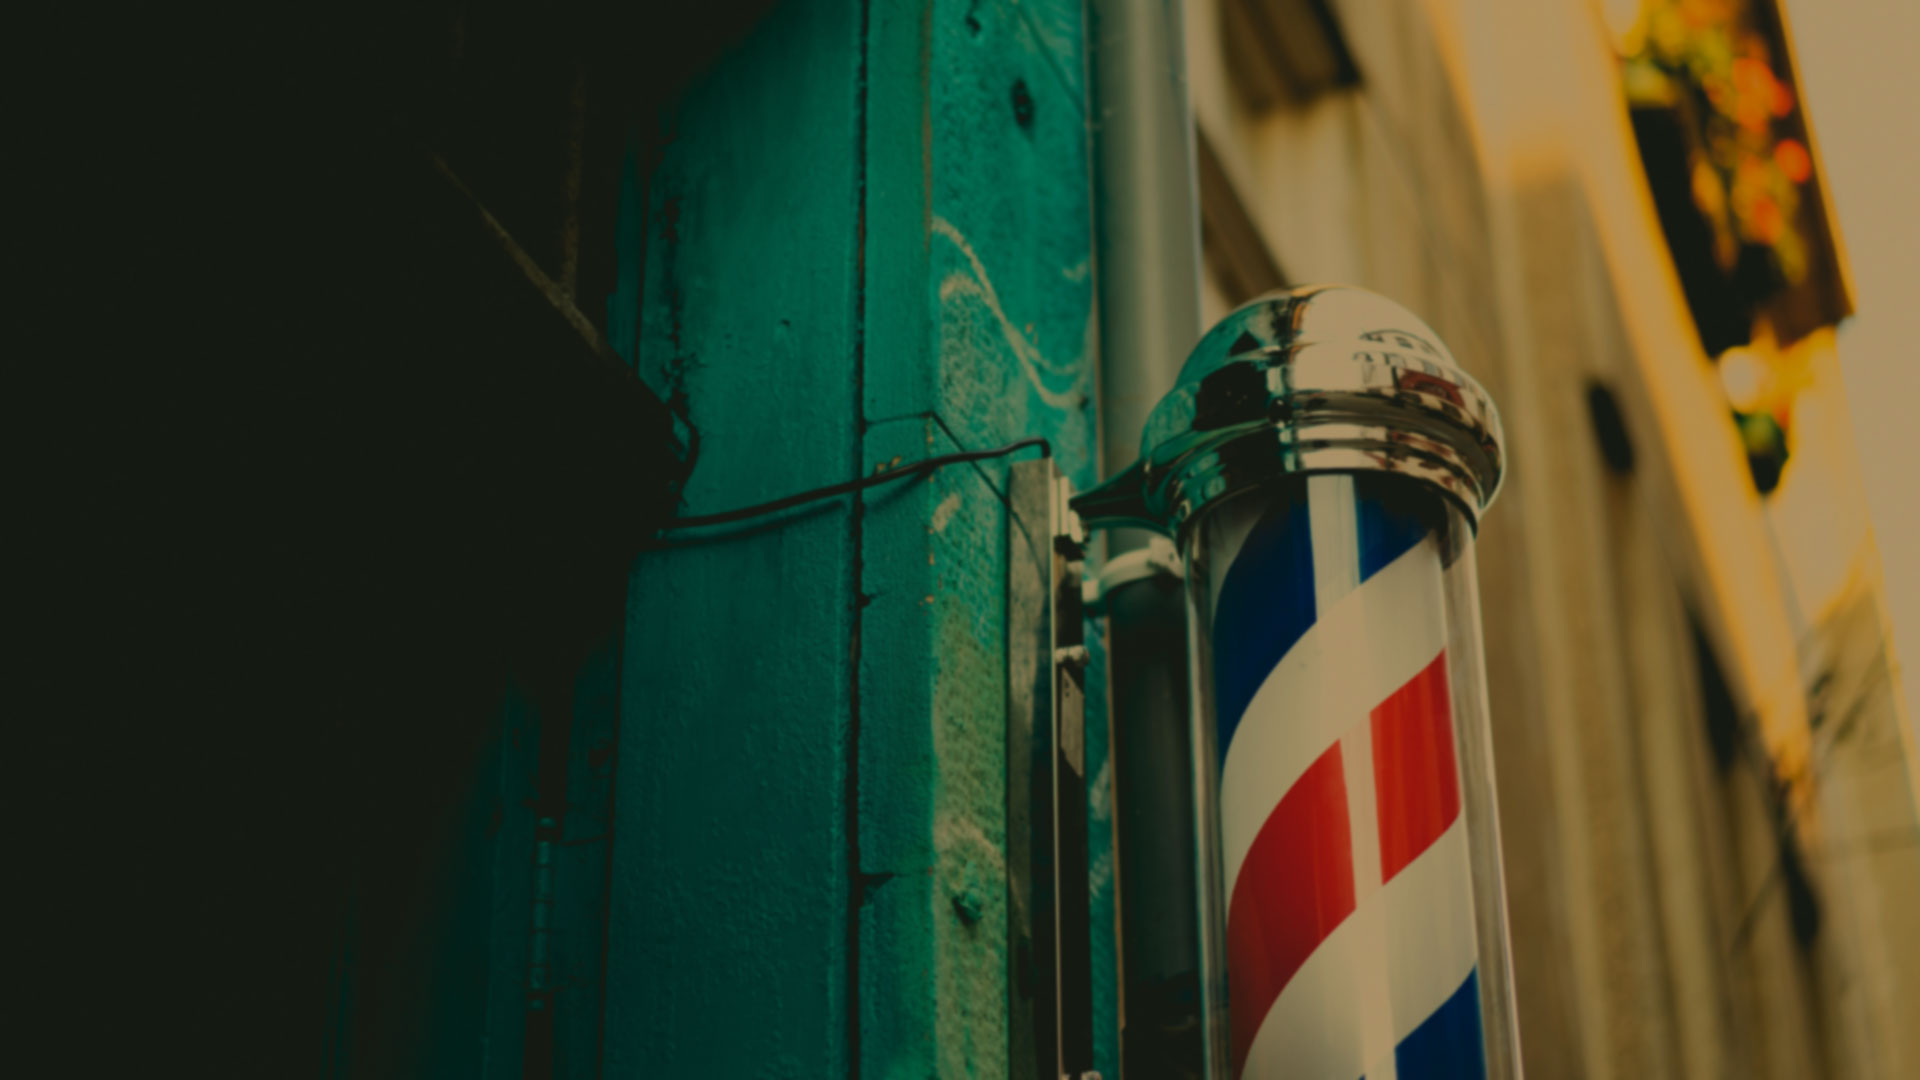
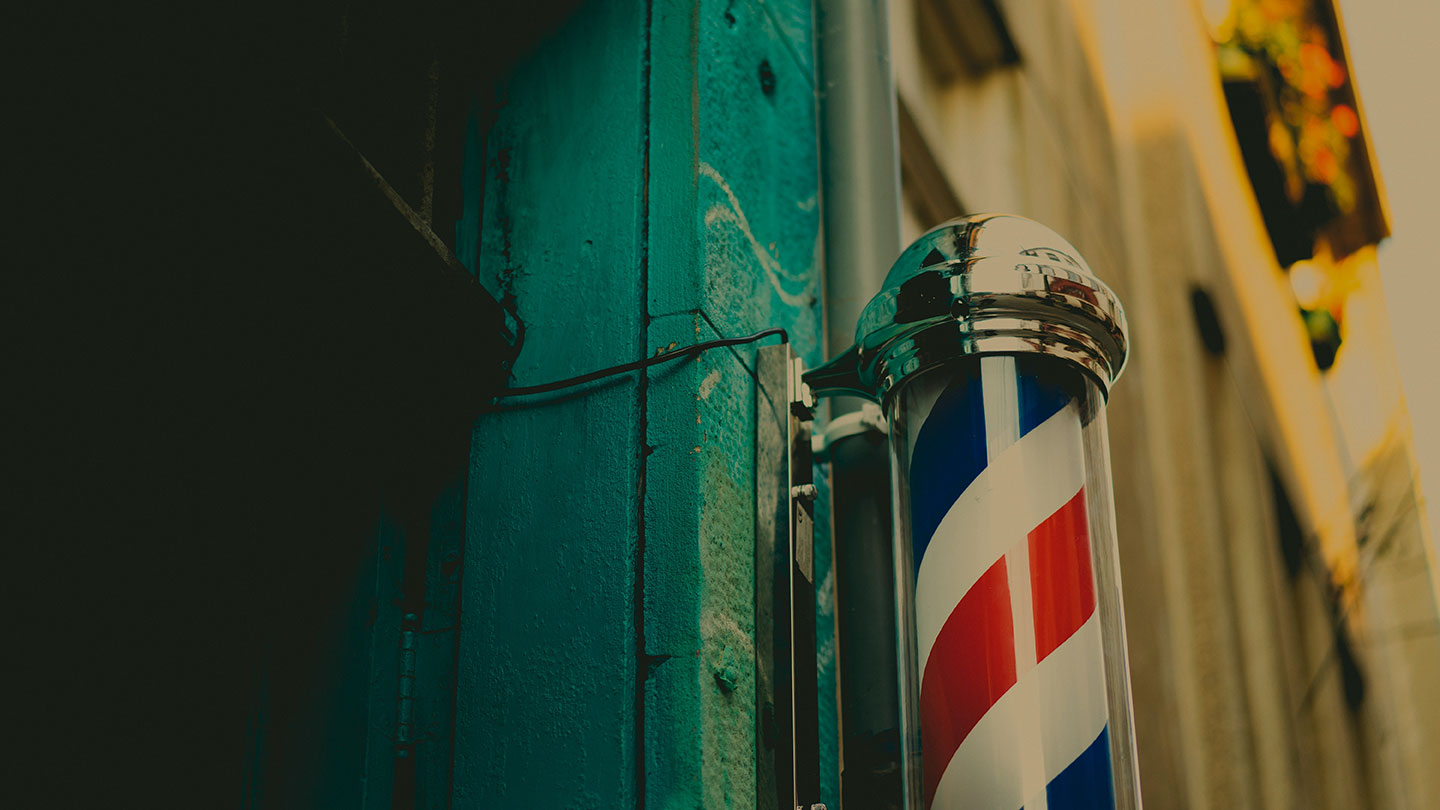
Alterado imagem da página Trabalhe conosco

diff --git a/css/trabalheconosco.css b/css/trabalheconosco.css
@@ -1,5 +1,5 @@
 .bg-trabalhe {
-  background-image: url(/assets/bg-contato.jpg);
+  background-image: url(/assets/bg-contato-mobile.jpg);
   background-position: center center;
   background-repeat: no-repeat;
   background-size: cover;
@@ -60,6 +60,9 @@
 }
 
 @media (min-width: 768px) {
+  .bg-trabalhe {
+    background-image: url(/assets/bg-contato.jpg);
+  }
   .formulario {
     margin: 70px;
   }
